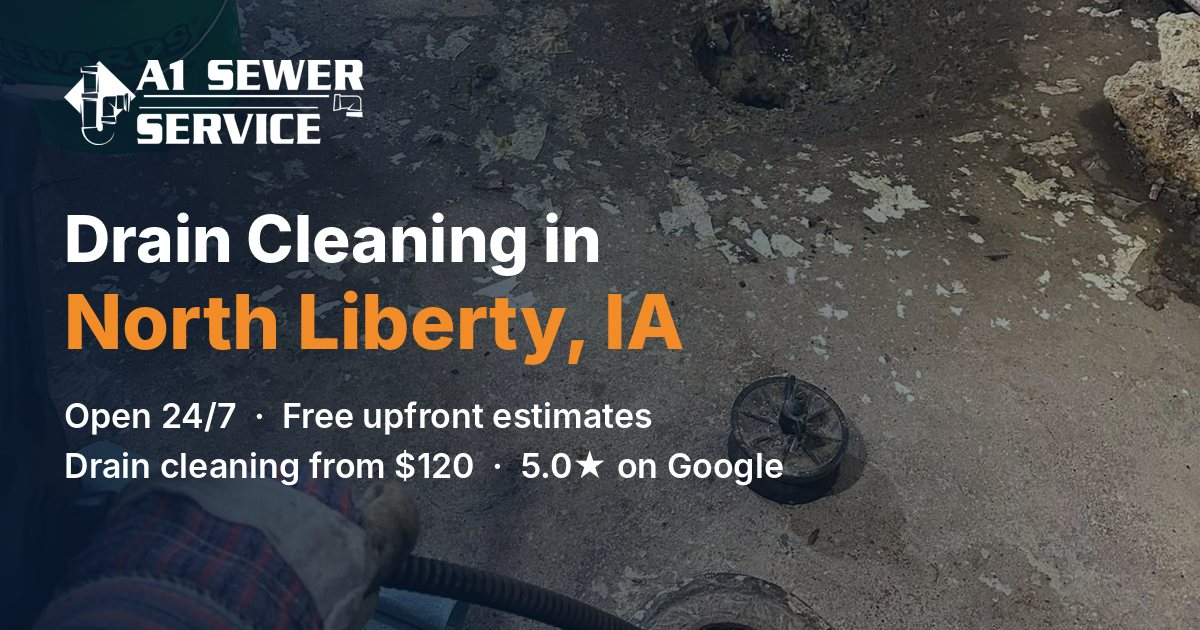
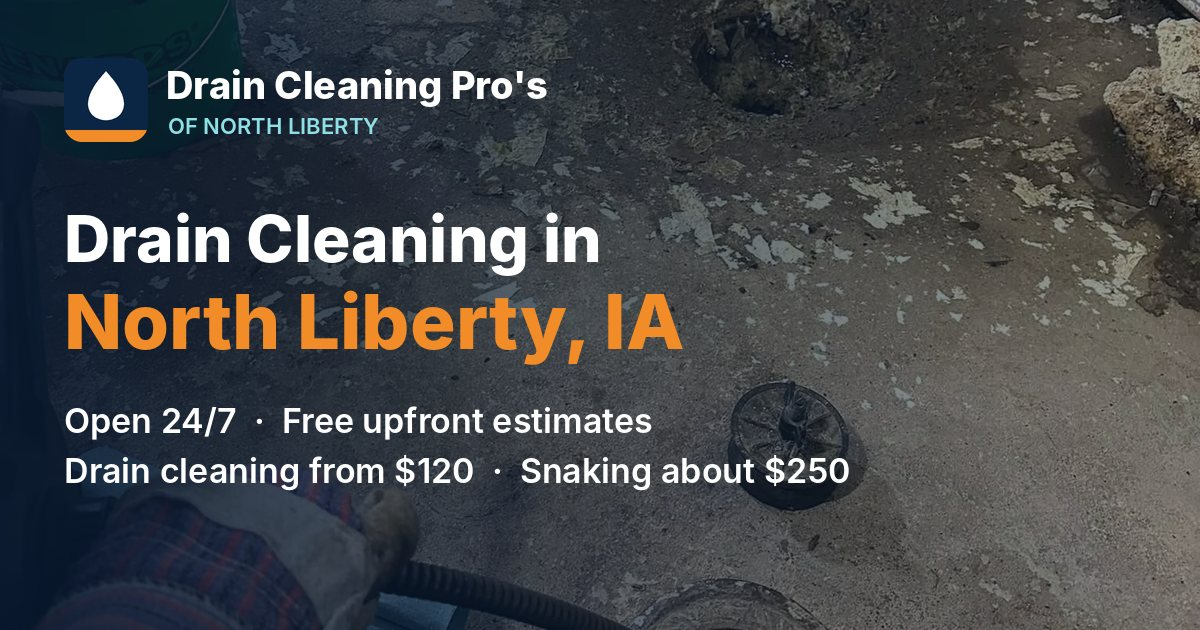
Rebrand as Drain Cleaning Pro's of North Liberty
- Site name, titles, H1s, schema, favicon and share image now use
  "Drain Cleaning Pro's of North Liberty" with a text logo instead of A1's logo
- Reviews, the 5.0 rating and job photos stay credited to A1 Sewer
  Service as the crew that completes the jobs, since they are its own
- Business schema drops A1's street address, coordinates and Google
  listing; the brand is listed as a service-area business

Claude-Session: https://claude.ai/code/session_019XHQQJX2rhaEadLY5LwQtJ

diff --git a/static/css/styles.css b/static/css/styles.css
@@ -67,15 +67,20 @@ ul { margin: 0; padding: 0; list-style: none; }
 .topbar-info span { display: inline-flex; align-items: center; gap: 8px; }
 .topbar-info .ico-svg { color: var(--orange); }
 .topbar-rating { display: inline-flex; align-items: center; gap: 8px; color: #fff; }
-.topbar-rating:hover { color: var(--orange); }
+.topbar-rating .ico-svg { color: var(--orange); }
 .stars { display: inline-flex; gap: 1px; color: #fbbc05; }
 .stars .ico-svg { width: 15px; height: 15px; }
 
 .site-header { position: sticky; top: 0; z-index: 50; background: #fff; border-bottom: 1px solid var(--line); }
 .site-header .container { display: flex; align-items: center; justify-content: space-between; gap: 20px; min-height: 78px; }
-.brand { display: flex; flex-direction: column; gap: 3px; }
-.brand img { width: 168px; height: auto; }
-.brand-sub { font-size: 11.5px; font-weight: 700; letter-spacing: 1.4px; text-transform: uppercase; color: var(--teal); }
+.brand { display: flex; align-items: center; gap: 12px; color: var(--ink); }
+.brand:hover { color: var(--ink); }
+.brand-mark { width: 46px; height: 46px; border-radius: 12px; background: var(--navy); color: #fff; display: grid; place-items: center; flex: none; box-shadow: inset 0 -5px 0 var(--orange); }
+.brand-mark .ico-svg { width: 24px; height: 24px; margin-top: -3px; }
+.brand-name { display: flex; flex-direction: column; font-family: var(--head); font-weight: 800; font-size: 25px; line-height: 1; color: var(--ink); letter-spacing: .3px; white-space: nowrap; }
+.brand-name small { font-family: var(--body); font-size: 12px; font-weight: 700; letter-spacing: 1.6px; text-transform: uppercase; color: var(--teal); margin-top: 5px; }
+.brand--light .brand-name { color: #fff; }
+.brand--light .brand-name small { color: #8fe0e4; }
 .nav { display: flex; align-items: center; gap: 4px; }
 .nav > li { position: relative; display: flex; align-items: center; }
 .nav > li > a { display: block; padding: 10px 13px; font-weight: 600; color: var(--ink); border-radius: 8px; }
@@ -218,9 +223,10 @@ ul { margin: 0; padding: 0; list-style: none; }
 .who b { display: block; color: var(--ink); }
 .who span { font-size: 14px; color: var(--muted); }
 .t-foot { text-align: center; margin-top: 34px; }
-.rating-pill, .f-rating { display: inline-flex; align-items: center; gap: 10px; background: #fff; border: 1px solid var(--line); border-radius: 40px; padding: 12px 22px; color: var(--ink); font-weight: 600; box-shadow: var(--shadow); }
-.rating-pill .ico-svg:last-child { width: 16px; height: 16px; color: var(--orange-2); }
-.rating-pill:hover { color: var(--orange-2); }
+.t-attr { display: flex; align-items: center; justify-content: center; gap: 10px; text-align: center; color: var(--muted); font-size: 15.5px; max-width: 760px; margin: -18px auto 30px; }
+.t-attr .ico-svg { color: var(--teal); width: 18px; height: 18px; }
+.t-attr b { color: var(--ink); }
+.rating-pill { display: inline-flex; align-items: center; gap: 10px; background: #fff; border: 1px solid var(--line); border-radius: 40px; padding: 12px 22px; color: var(--ink); font-weight: 600; box-shadow: var(--shadow); }
 
 /* before / after */
 .ba-grid { display: grid; grid-template-columns: 1fr 1fr; gap: 24px; max-width: 1000px; margin: 0 auto; }
@@ -330,12 +336,11 @@ ul { margin: 0; padding: 0; list-style: none; }
 /* footer */
 .site-footer { background: var(--navy-3); color: #9fb2c8; padding: 76px 0 0; font-size: 15.5px; }
 .f-grid { display: grid; grid-template-columns: 1.4fr 1fr 1fr 1.3fr; gap: 44px; }
-.brand--light img { width: 190px; margin-bottom: 18px; }
+.site-footer .brand { margin-bottom: 18px; }
 .site-footer h4 { color: #fff; font-size: 22px; margin-bottom: 18px; }
 .site-footer ul { display: grid; gap: 10px; }
 .site-footer a { color: #c9d6e6; }
 .site-footer a:hover { color: var(--orange); }
-.f-rating { background: rgba(255, 255, 255, 0.06); border-color: rgba(255, 255, 255, 0.12); color: #fff; box-shadow: none; font-size: 14.5px; padding: 10px 16px; }
 .f-contact li { display: flex; gap: 12px; align-items: flex-start; }
 .f-contact .ico-svg { color: var(--orange); width: 18px; height: 18px; margin-top: 4px; }
 .f-bottom { margin-top: 56px; border-top: 1px solid rgba(255, 255, 255, 0.1); padding: 22px 0; display: flex; justify-content: space-between; gap: 16px; flex-wrap: wrap; font-size: 14.5px; }
@@ -401,8 +406,11 @@ ul { margin: 0; padding: 0; list-style: none; }
   .hide-sm { display: none !important; }
   .topbar .container { justify-content: center; flex-wrap: wrap; gap: 4px 16px; padding-top: 6px; padding-bottom: 6px; }
   .site-header .container { min-height: 68px; }
-  .brand img { width: 138px; }
-  .brand-sub { font-size: 10px; letter-spacing: 1px; }
+  .brand { gap: 10px; }
+  .brand-mark { width: 40px; height: 40px; border-radius: 10px; }
+  .brand-mark .ico-svg { width: 21px; height: 21px; }
+  .brand-name { font-size: 21px; }
+  .brand-name small { font-size: 10.5px; letter-spacing: 1.2px; }
   .header-cta .btn { display: none; }
   .cards, .cards--3, .steps, .ba-grid, .f-grid { grid-template-columns: 1fr; }
   .contact-form { padding: 22px 18px; }
